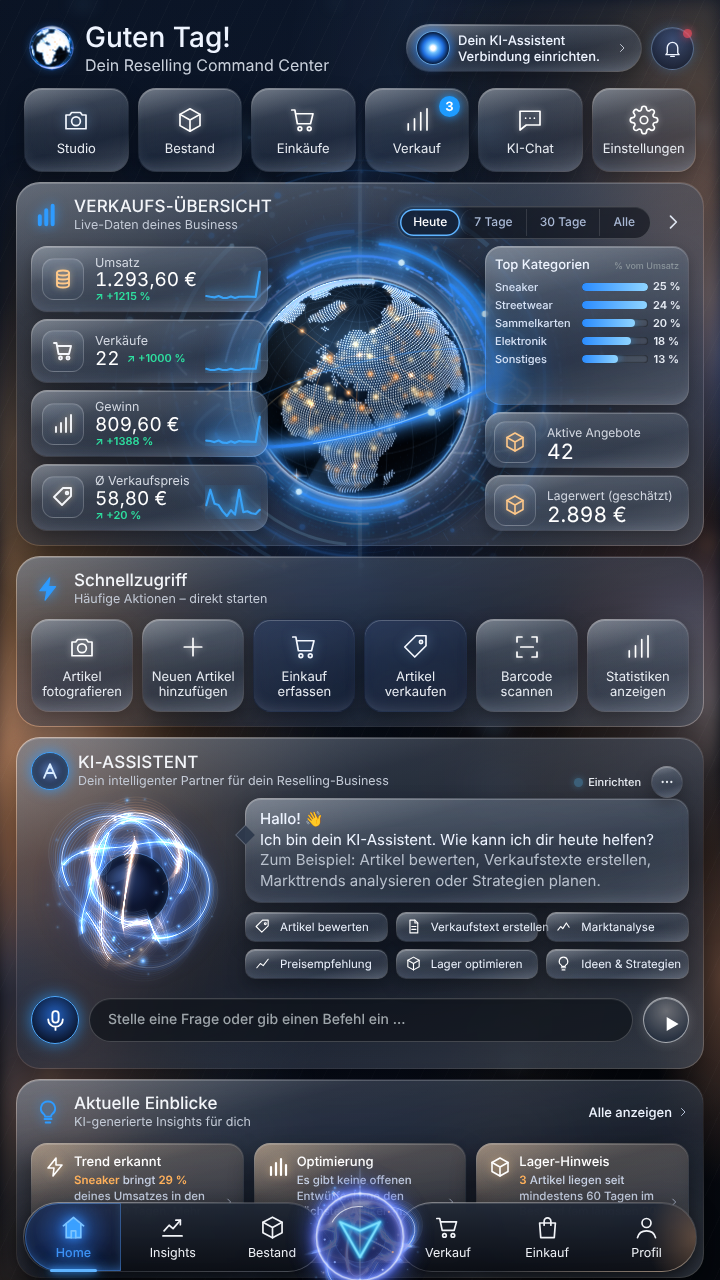
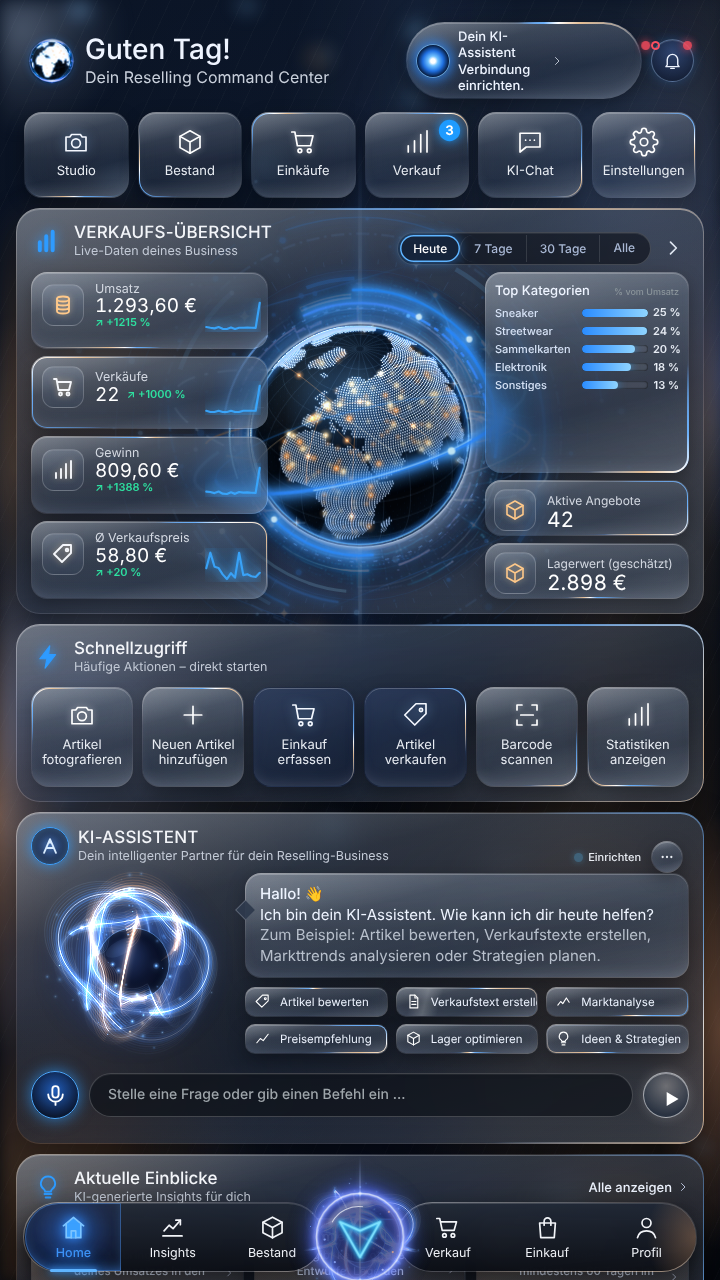
Animierte Lichteffekte auf Knöpfen und Karten
- Lichtpunkt läuft leuchtend den Rand entlang (zeitversetzt je Element)
- Glanzstreifen gleitet über die Glasflächen
- Symbole glühen sanft pulsierend (blau, Umsatz/Angebote warm)
- Darüberfahren hebt an und leuchtet blau, Antippen drückt ein mit Lichtblitz
- Abzeichen pulsiert, aktiver Zeitraum atmet
- Bei reduzierter Bewegung alles statisch

Claude-Session: https://claude.ai/code/session_0194bcZ5PbUBuV3hzmwdGD96

diff --git a/public/theme.css b/public/theme.css
@@ -672,3 +672,53 @@ body:has(#home:not(.hidden)) main.wrap { padding-bottom:104px !important; }
     linear-gradient(170deg, rgba(255,255,255,.42), rgba(255,255,255,.10) 35%, rgba(255,255,255,.06) 70%, rgba(255,215,175,.55)) border-box !important; }
 #bottomnav.lux-bottomnav #navHome::before { inset:1px 2px 1px 1px !important; border-radius:999px 30px 30px 999px !important; }
 #bottomnav.lux-bottomnav .orb svg.cc-navorb { width:126px !important; height:126px !important; }
+
+/* ================= Animierte Lichteffekte auf Knöpfen und Karten ================= */
+@property --cc-a { syntax:'<angle>'; inherits:false; initial-value:0deg; }
+.v11-tile, .v11-q, .v11-card, .v11-pill, .v11-m, .v11-s2, .v11-cat, .v11-prompts button, .v11-bell, .cc-q, .cc-side, .cc-pills .chat-chip, .v11-panel { position:relative; }
+/* 1) Lichtpunkt, der den Rand entlangläuft */
+.cc-glint { display:block !important; position:absolute !important; inset:-1px !important; z-index:3 !important; pointer-events:none; overflow:visible !important;
+  border-radius:inherit; padding:1.5px; box-sizing:border-box;
+  background:conic-gradient(from var(--cc-a), transparent 0 62%, rgba(90,160,255,.0) 64%, rgba(110,180,255,.9) 74%, #ffffff 78%, rgba(255,200,140,.85) 82%, transparent 90%);
+  -webkit-mask:linear-gradient(#000 0 0) content-box exclude, linear-gradient(#000 0 0); mask:linear-gradient(#000 0 0) content-box exclude, linear-gradient(#000 0 0);
+  -webkit-mask-composite:xor; filter:drop-shadow(0 0 4px rgba(110,180,255,.9));
+  animation:cc-orbitlight 7s linear infinite; animation-delay:var(--d,0s); opacity:.9; }
+.v11-panel > .cc-glint { animation-duration:14s; opacity:.6; padding:1px; }
+.cc-glint::after { display:none !important; }
+/* 2) Glanzstreifen, der über die Fläche gleitet */
+.cc-glint::before { display:none !important; }
+.cc-sheen { position:absolute; top:0; bottom:0; left:0; width:45%; z-index:2; pointer-events:none;
+  background:linear-gradient(105deg, transparent 0%, rgba(255,255,255,0) 30%, rgba(255,255,255,.14) 50%, rgba(255,255,255,0) 70%, transparent 100%);
+  transform:translateX(-120%); animation:cc-sheen 7s ease-in-out infinite; animation-delay:calc(var(--d,0s) - 2s); }
+.v11-tile, .v11-q, .v11-card, .v11-m, .v11-s2, .cc-q, .v11-prompts button, .cc-pills .chat-chip { overflow:hidden; }
+@keyframes cc-orbitlight { to { --cc-a:360deg; } }
+@keyframes cc-sheen { 0%, 55% { transform:translateX(-120%); } 85%, 100% { transform:translateX(260%); } }
+/* 3) Symbole glühen sanft */
+.v11-tile .ic, .v11-q .ic, .v11-m .mi .v11-ico, .v11-s2 .mi .v11-ico, .v11-card .ci, .cc-q .ic .v11-ico, .lux-bottomnav button:not(.orb) svg {
+  animation:cc-iconglow 3.6s ease-in-out infinite; }
+.v11-tile:nth-child(2n) .ic, .v11-q:nth-child(2n) .ic, .v11-m:nth-child(2n) .mi .v11-ico { animation-delay:-1.2s; }
+.v11-tile:nth-child(3n) .ic, .v11-q:nth-child(3n) .ic, .v11-m:nth-child(3n) .mi .v11-ico { animation-delay:-2.4s; }
+@keyframes cc-iconglow { 0%,100% { filter:drop-shadow(0 0 2px rgba(255,255,255,.35)); } 50% { filter:drop-shadow(0 0 5px rgba(160,210,255,.95)) drop-shadow(0 0 12px rgba(80,160,255,.55)); } }
+.v11-m:first-child .mi .v11-ico, .v11-s2 .mi .v11-ico { animation-name:cc-iconglow-warm; }
+@keyframes cc-iconglow-warm { 0%,100% { filter:drop-shadow(0 0 2px rgba(255,200,140,.4)); } 50% { filter:drop-shadow(0 0 6px rgba(255,190,120,.95)) drop-shadow(0 0 12px rgba(255,160,90,.5)); } }
+/* 4) Antippen/Darüberfahren: Fläche leuchtet auf, hebt sich leicht */
+.v11-tile, .v11-q, .v11-card, .v11-prompts button, .cc-q, .cc-pills .chat-chip { transition:transform .2s ease, box-shadow .25s ease, filter .25s ease !important; }
+@media(hover:hover) {
+  .v11-tile:hover, .v11-q:hover, .v11-card:hover, .v11-prompts button:hover, .cc-q:hover, .cc-pills .chat-chip:hover {
+    transform:translateY(-2px); filter:brightness(1.15);
+    box-shadow:0 0 0 1px rgba(140,200,255,.55), 0 0 18px rgba(70,150,255,.45), 0 10px 22px rgba(0,0,0,.4), inset 0 1px 0 rgba(255,255,255,.25) !important; }
+  .v11-tile:hover > .cc-glint, .v11-q:hover > .cc-glint { animation-duration:2.2s; }
+}
+.v11-tile:active, .v11-q:active, .v11-card:active, .v11-prompts button:active, .cc-q:active, .cc-pills .chat-chip:active {
+  transform:scale(.96); box-shadow:0 0 0 1px rgba(160,210,255,.8), 0 0 24px rgba(70,150,255,.7), inset 0 0 18px rgba(90,170,255,.35) !important; }
+/* Badge pulsiert, Zeitraum-Knopf atmet */
+.v11-tile .bd { animation:cc-badge 2.2s ease-in-out infinite; }
+@keyframes cc-badge { 0%,100% { box-shadow:0 0 6px rgba(30,155,255,.8); transform:scale(1); } 50% { box-shadow:0 0 14px rgba(30,155,255,1), 0 0 24px rgba(30,155,255,.5); transform:scale(1.08); } }
+.v11-seg button[aria-pressed='true'] { animation:cc-segbreathe 3s ease-in-out infinite !important; }
+@keyframes cc-segbreathe { 0%,100% { box-shadow:inset 0 0 0 1.5px #5fb4ff, 0 0 8px rgba(61,155,255,.4); } 50% { box-shadow:inset 0 0 0 1.5px #9fd2ff, 0 0 16px rgba(61,155,255,.8); } }
+@media (prefers-reduced-motion: reduce) {
+  .cc-glint, .cc-sheen, .v11-tile .ic, .v11-q .ic, .v11-m .mi .v11-ico, .v11-s2 .mi .v11-ico, .v11-card .ci, .cc-q .ic .v11-ico, .lux-bottomnav button:not(.orb) svg, .v11-tile .bd, .v11-seg button[aria-pressed='true'] { animation:none !important; }
+}
+.cc-glint { padding:2px !important; filter:drop-shadow(0 0 5px rgba(110,180,255,1)) drop-shadow(0 0 10px rgba(80,150,255,.6)) !important; opacity:1 !important; }
+.v11-panel > .cc-glint { padding:1.5px !important; opacity:.75 !important; }
+.cc-sheen { background:linear-gradient(105deg, transparent 0%, rgba(255,255,255,0) 28%, rgba(255,255,255,.2) 50%, rgba(255,255,255,0) 72%, transparent 100%) !important; }

diff --git a/public/fx.js b/public/fx.js
@@ -553,12 +553,13 @@
     });
   }
   function setupGlints() {
-    var els = doc.querySelectorAll('#v11Root .v11-panel, #v11Root .v11-tile, #v11Root .v11-q, #v11Root .v11-card, #v11Root .v11-pill');
+    var els = doc.querySelectorAll('#ccChatIns .v11-card, #v11Root .v11-panel, #v11Root .v11-tile, #v11Root .v11-q, #v11Root .v11-card, #v11Root .v11-pill, #v11Root .v11-m, #v11Root .v11-s2, #v11Root .v11-cat, #v11Root .v11-prompts button, #v11Root .v11-bell, #ccChat .cc-q, #ccChat .chat-chip, #ccChat .cc-side');
     Array.prototype.forEach.call(els, function (el, i) {
       if (el.querySelector(':scope > .cc-glint')) return;
       var g = doc.createElement('i'); g.className = 'cc-glint'; g.setAttribute('aria-hidden', 'true');
       g.style.setProperty('--d', (-(i * 1.37) % 9).toFixed(2) + 's');
       el.appendChild(g);
+      if (!el.classList.contains('v11-panel') && !el.classList.contains('v11-cat') && !el.classList.contains('cc-side')) { var sh = doc.createElement('i'); sh.className = 'cc-sheen'; sh.setAttribute('aria-hidden', 'true'); sh.style.setProperty('--d', g.style.getPropertyValue('--d')); el.appendChild(sh); }
     });
   }
 
@@ -852,7 +853,7 @@
   function drawStatic() { for (var i = 0; i < earths.length; i++) { if (earths[i].resize()) earths[i].draw(0); } for (var j = 0; j < plasmas.length; j++) { if (plasmas[j].resize()) plasmas[j].draw(2); } }
 
   function init() {
-    setupGlobe(); setupAvatar(); setupRobot(); setupNavCore(); setupNavTap(); setupFills(); setupGlints(); setupEmbers(); setupCounters();
+    setupGlobe(); setupAvatar(); setupRobot(); setupNavCore(); setupNavTap(); setupFills(); setupGlints(); if (window.MutationObserver) { var ins = doc.getElementById('v11-insights'); if (ins) new MutationObserver(setupGlints).observe(ins, { childList: true }); var ci = doc.getElementById('ccChatIns'); if (ci) new MutationObserver(setupGlints).observe(ci, { childList: true }); } setupEmbers(); setupCounters();
     doc.documentElement.classList.add('cc-fx');
     if (reduce) { drawStatic(); window.addEventListener('resize', drawStatic); var nh = doc.getElementById('navHome'); if (nh) nh.addEventListener('click', function () { setTimeout(drawStatic, 60); }); }
     else requestAnimationFrame(frame);

diff --git a/public/sw.js b/public/sw.js
@@ -1,4 +1,4 @@
-const CACHE='rv-studio-v19-blueglass-7';
+const CACHE='rv-studio-v19-blueglass-8';
 const FILES=['/','/index.html','/app.css','/dashboard.css','/fx.css','/ref.css','/theme.css','/app.js','/dashboard.js','/fx.js',
   '/vendor/jszip.min.js','/fonts/command-sans-regular.otf','/fonts/command-sans-bold.otf',
   '/rv-logo.jpg','/rv-ai-mascot.png','/rv-robot-premium.png','/rv-white.png',
